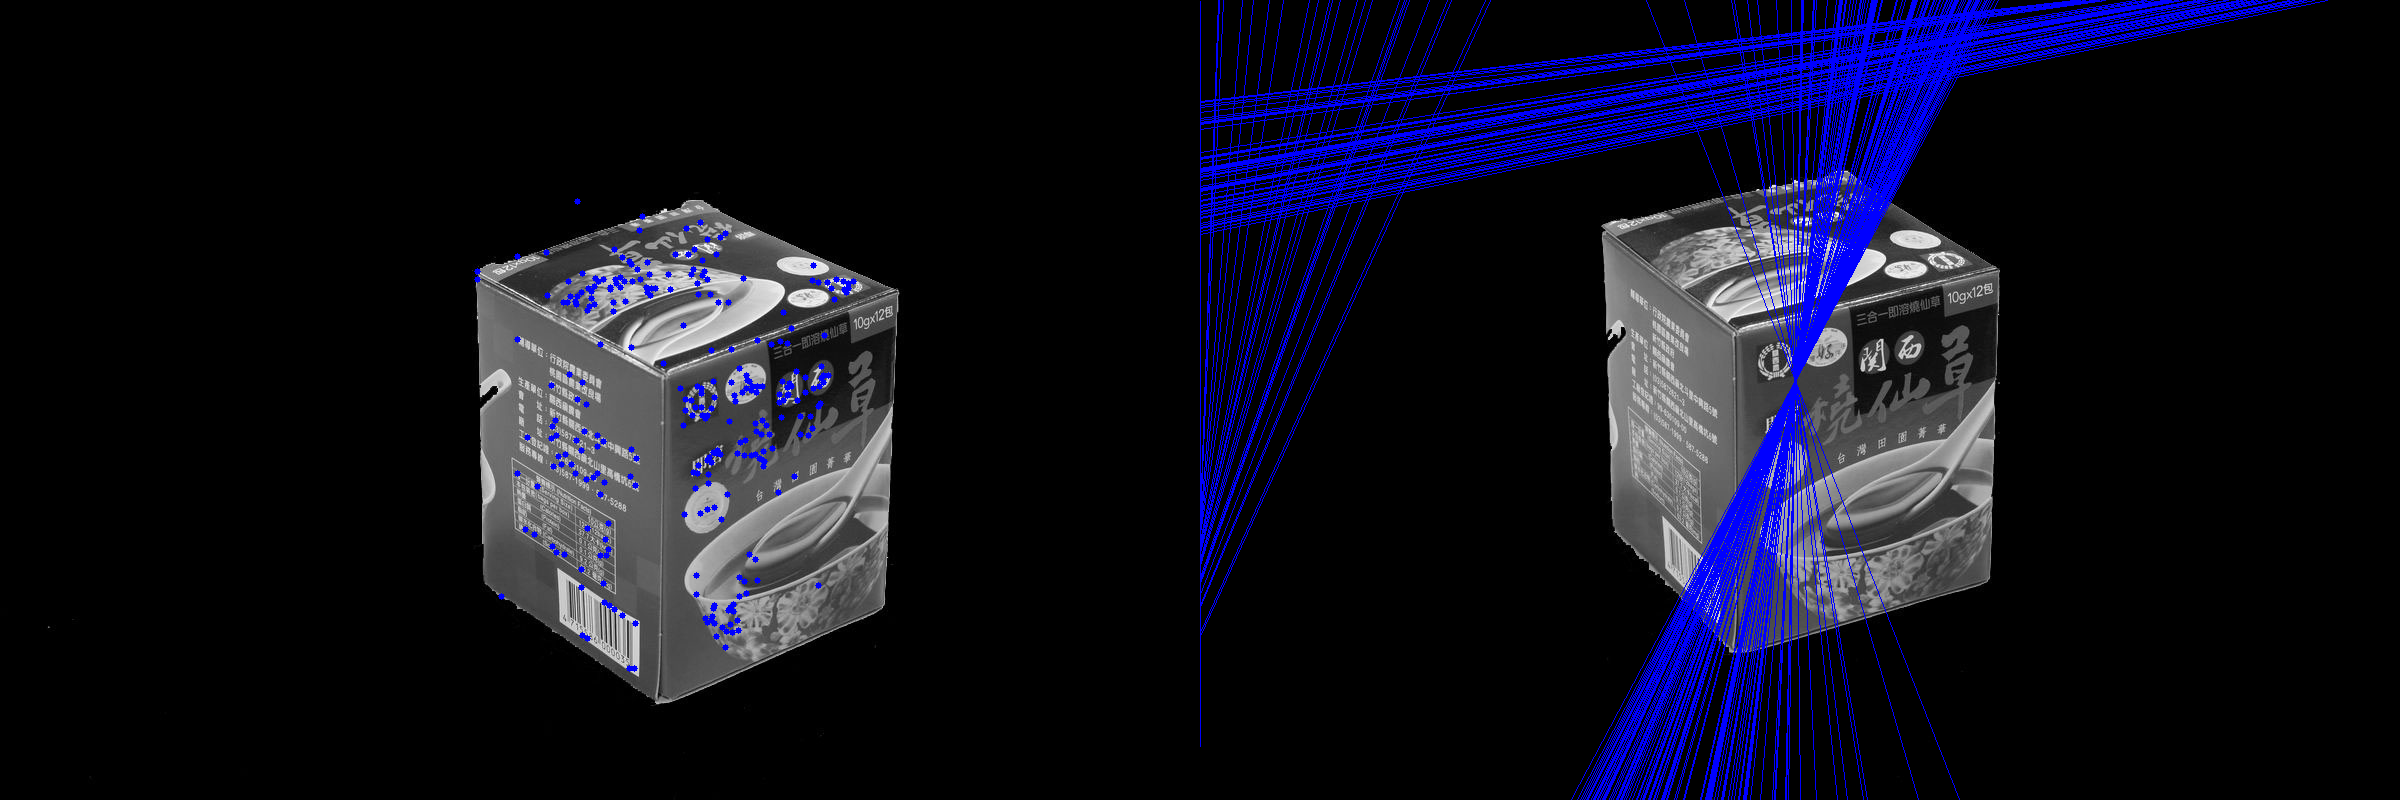
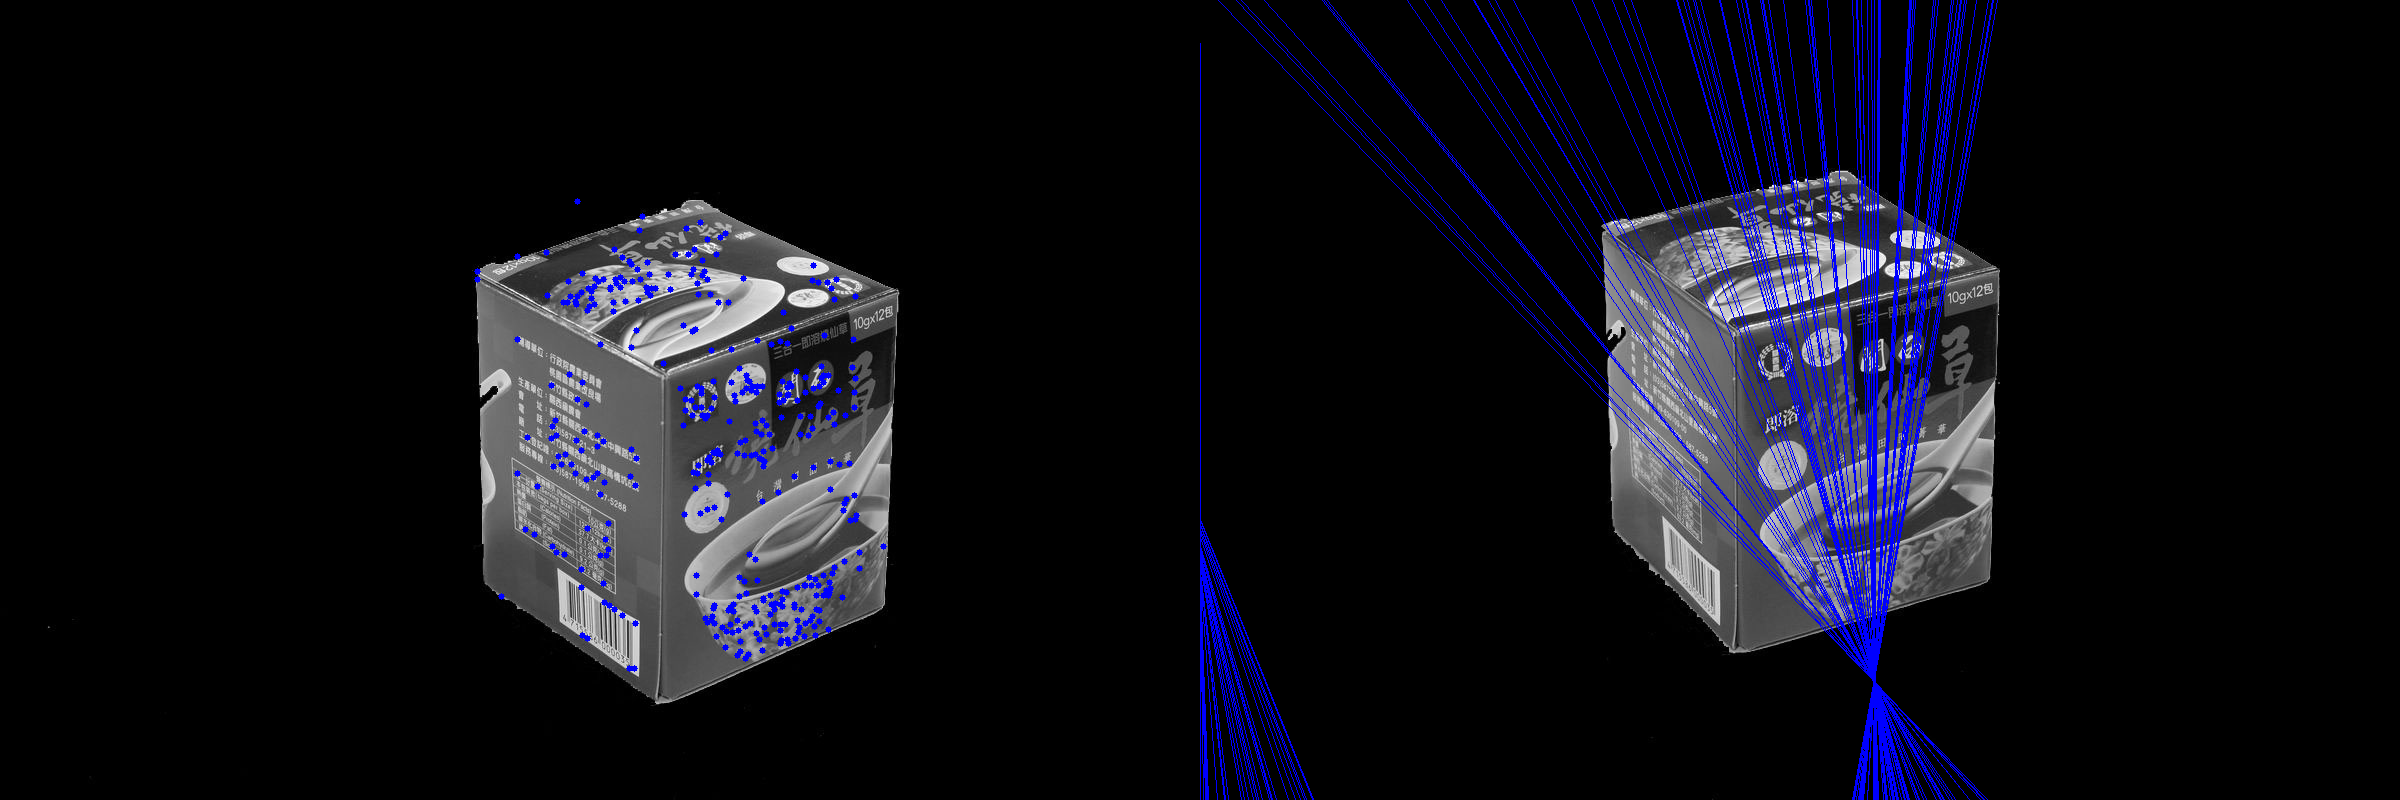
finish step 4

Changed region(s): [[0.5, 0.0, 0.9688, 1.0], [0.3125, 0.7188, 0.3438, 0.8125]]

diff --git a/structure-from-motion/step1-3.py b/structure-from-motion/step1-3.py
@@ -2,8 +2,9 @@ import cv2
 import numpy as np
 from matplotlib import pyplot as plt
 
-# create a ShapeError class to raise dimension issue
 class ShapeError(Exception):
+    """ create a ShapeError class to raise dimension issue
+    """
     def __init__(self, x):
         self.x = x
     
@@ -290,13 +291,40 @@ def drawlines(img1,img2,lines,pts1,pts2):
 
 """
 #
-# step 4 - 6
+# step 4: essential matrix
 #
 # the given intrinsic parameters provided in hw3
 K = np.array([[1.4219, 0.0005, 0.5092],
               [0, 1.4219, 0.3802],
               [0, 0, 0.0010]], dtype=float)
-K_inv = np.linalg.inv(K)
+
+# assume camera matrix P1 is P=[I|0]
+P1 = np.array([[1, 0, 0, 0],
+               [0, 1, 0, 0],
+               [0, 0, 1, 0]], dtype=float)
+
+# E = K1.T * F * K2
+E = np.dot(np.dot(K.T, F), K)
+U, S, V = np.linalg.svd(E)
+m = (S[0]+S[1])/2
+E = np.dot(np.dot(U, np.diag((m,m,0))), V)
+U, S, V = np.linalg.svd(E)
+W = np.array([[0, -1, 0],
+              [1,  0, 0],
+              [0,  0, 1]], dtype=float)
+u3 = U[:,2]
+P2_1 = np.c_[np.dot(np.dot(U, W),   V),  u3]
+P2_2 = np.c_[np.dot(np.dot(U, W),   V), -u3]
+P2_3 = np.c_[np.dot(np.dot(U, W.T), V),  u3]
+P2_4 = np.c_[np.dot(np.dot(U, W.T), V), -u3]
+
+
+#
+# step 5: find out most appropriate answer
+#
 
 
 
+#
+# step 6: triangulation to get 3D points
+#
